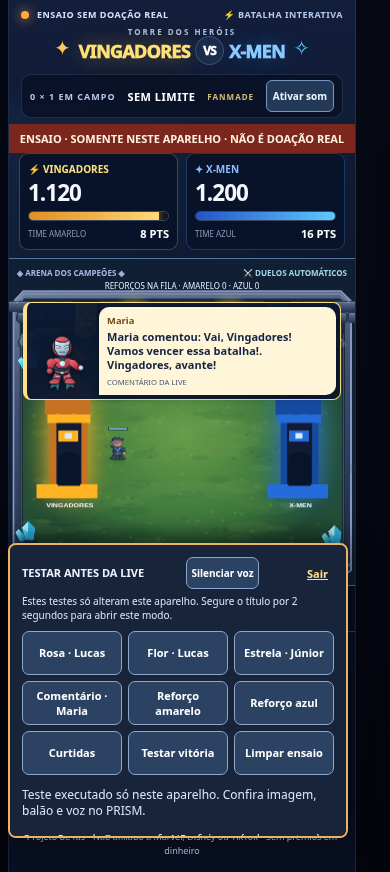
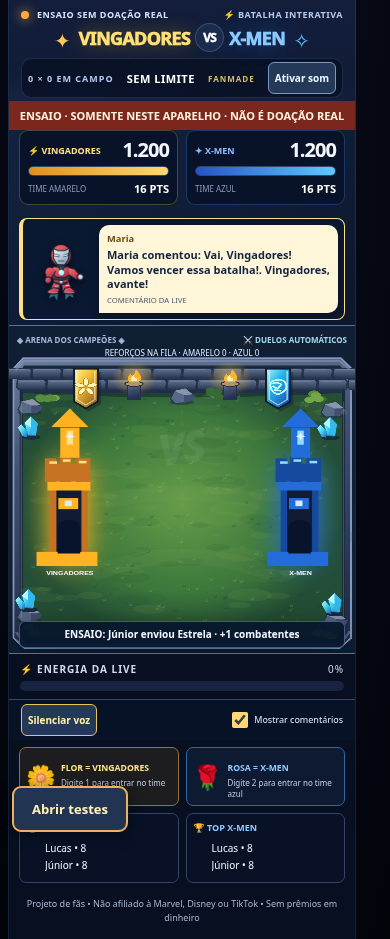
fix: testes dos dois times, retrato completo e trilha sonora local

diff --git a/public/game.js b/public/game.js
@@ -36,7 +36,7 @@
   const colors = { yellow: ["#ffb323", "#ffe084", "#c57322"], blue: ["#256cdb", "#90ddff", "#154a9f"] };
   // Small original Web Audio cues. Nothing starts before an explicit tap.
   const sound = (() => {
-    let context = null, master = null, enabled = false;
+    let context = null, master = null, enabled = false, musicTimer = null, musicStep = 0, ducked = false;
     const voices = new Set(), last = Object.create(null);
     const button = $("soundToggle");
     const cues = {
@@ -51,10 +51,11 @@
     };
     function label() {
       const running = enabled && context?.state === "running";
-      button.textContent = running ? "Silenciar" : "Ativar som";
+      button.textContent = running ? "Silenciar som" : "Ativar som";
       button.setAttribute?.("aria-pressed", String(Boolean(running)));
     }
     function stop() {
+      clearInterval(musicTimer); musicTimer = null;
       for (const oscillator of voices) { try { oscillator.stop(); } catch {} }
       voices.clear();
     }
@@ -71,11 +72,30 @@
           enabled = false; stop(); master.gain.value = 0;
         } else {
           await context.resume(); enabled = context.state === "running";
-          master.gain.value = enabled ? .3 : 0;
-          if (enabled) play("reset");
+          master.gain.value = enabled ? (ducked ? .08 : .3) : 0;
+          if (enabled) { play("reset"); startMusic(); }
         }
         label();
       } catch { enabled = false; label(); }
+    }
+    // Original quiet fantasy arpeggio, two short notes per second; no downloads.
+    function startMusic() {
+      if (musicTimer) return;
+      const melody = [57, 64, 69, 72, 59, 66, 71, 74, 55, 62, 67, 71, 60, 64, 67, 72];
+      const tick = () => {
+        if (!enabled || context.state !== "running" || document.hidden || voices.size >= 10) return;
+        const start = context.currentTime, end = start + .85;
+        const oscillator = context.createOscillator(), envelope = context.createGain();
+        oscillator.type = "sine";
+        oscillator.frequency.value = 440 * 2 ** ((melody[musicStep++ % melody.length] - 69) / 12);
+        envelope.gain.setValueAtTime(0, start);
+        envelope.gain.linearRampToValueAtTime(.06, start + .045);
+        envelope.gain.exponentialRampToValueAtTime(.001, end);
+        oscillator.connect(envelope); envelope.connect(master); voices.add(oscillator);
+        oscillator.onended = () => { voices.delete(oscillator); oscillator.disconnect(); envelope.disconnect(); };
+        oscillator.start(start); oscillator.stop(end + .02);
+      };
+      tick(); musicTimer = setInterval(tick, 500);
     }
     function play(kind) {
       if (!enabled || context?.state !== "running" || document.hidden) return;
@@ -101,7 +121,7 @@
     document.addEventListener?.("visibilitychange", () => {
       if (document.hidden && context) { enabled = false; stop(); master.gain.value = 0; label(); }
     });
-    return { play, duck(active) { if (master) master.gain.value = enabled ? (active ? .08 : .3) : 0; } };
+    return { play, duck(active) { ducked = active; if (master) master.gain.value = enabled ? (active ? .08 : .3) : 0; } };
   })();
   let voiceEnabled = false, voiceStarting = false, voiceWanted = true, voiceAudio = null, autoVoiceTried = false;
   const voiceButton = $("voiceToggle");
@@ -243,8 +263,9 @@
     });
   });
   async function startRehearsal(data) {
+    $('openRehearsal').hidden = true;
     $('rehearsalBanner').hidden = false; $('rehearsalPanel').hidden = false;
-    document.body.append($('rehearsalPanel'));
+    document.body.append($('rehearsalPanel')); document.body.append($('showRehearsalControls'));
     document.body.classList.add('rehearsal-mode');
     try {
       const [{ Battle }, { createRehearsal }] = await Promise.all([import('/testing/battle.mjs'), import('/rehearsal.mjs')]);
@@ -256,11 +277,17 @@
       diagnostics(data);
     } catch { $('rehearsalResult').textContent = 'Não foi possível carregar o ensaio. Atualize a página.'; }
   }
+  $('showRehearsalControls').addEventListener('click', () => { $('rehearsalPanel').hidden = false; $('showRehearsalControls').hidden = true; });
+  $('hideRehearsalControls').addEventListener('click', () => { $('rehearsalPanel').hidden = true; $('showRehearsalControls').hidden = false; });
   document.querySelectorAll('[data-rehearsal]').forEach(button => button.addEventListener('click', async () => {
     if (!rehearsal) return;
     button.disabled = true; let voiceMissing = false; $('rehearsalResult').textContent = 'Preparando teste e voz…';
     try {
       const action = button.dataset.rehearsal;
+      if (!['reset', 'likes'].includes(action)) {
+        $('rehearsalPanel').hidden = true; $('showRehearsalControls').hidden = false;
+        $('showRehearsalControls').textContent = 'Preparando teste…'; $('showRehearsalControls').disabled = true;
+      }
       if (action === 'reset') rehearsal.reset();
       else if (action === 'likes') rehearsal.likes();
       else if (action === 'victory') rehearsal.victory();
@@ -273,23 +300,23 @@
         else rehearsal.gift(fixture, action === 'yellow' || action === 'blue' ? 19 : fixture.count);
       }
       $('rehearsalResult').textContent = voiceMissing ? 'Teste de imagem executado. A voz não ficou pronta; aguarde e tente novamente.' : 'Teste executado só neste aparelho. Confira imagem, balão e voz no PRISM.';
-    } catch { $('rehearsalResult').textContent = 'Não foi possível preparar o teste. Aguarde e tente novamente.'; }
-    finally { button.disabled = false; }
+    } catch { $('rehearsalResult').textContent = 'Não foi possível preparar o teste. Aguarde e tente novamente.'; $('rehearsalPanel').hidden = false; $('showRehearsalControls').hidden = true; }
+    finally { button.disabled = false; $('showRehearsalControls').disabled = false; $('showRehearsalControls').textContent = 'Abrir testes'; }
   }));
   const brand = document.querySelector?.('.brandline');
   let hold;
-  brand?.addEventListener('pointerdown', () => {
+  function enterRehearsal() {
     if (rehearsalMode) return;
-    hold = setTimeout(() => {
-      rehearsalMode = true; window.history.replaceState(null, '', '#teste');
-      sprites.clear(); fallen = []; announcementQueue.length = 0; nextAnnouncementAt = 0; giftUntil = 0;
-      if (liveState) void startRehearsal(liveState);
-    }, 2000);
-  });
+    rehearsalMode = true; window.history.replaceState(null, '', '#teste');
+    sprites.clear(); fallen = []; announcementQueue.length = 0; nextAnnouncementAt = 0; giftUntil = 0;
+    if (liveState) void startRehearsal(liveState);
+  }
+  $('openRehearsal').addEventListener('click', enterRehearsal);
+  brand?.addEventListener('pointerdown', () => { if (!rehearsalMode) hold = setTimeout(enterRehearsal, 2000); });
   $('exitRehearsal').addEventListener('click', event => {
     event.preventDefault(); rehearsalMode = false; rehearsal = null; clearInterval(rehearsalTimer);
     window.history.replaceState(null, '', window.location.pathname);
-    $('rehearsalPanel').hidden = true; $('rehearsalBanner').hidden = true;
+    $('rehearsalPanel').hidden = true; $('rehearsalBanner').hidden = true; $('showRehearsalControls').hidden = true; $('openRehearsal').hidden = false;
     document.body.classList.remove('rehearsal-mode');
     announcementQueue.length = 0; nextAnnouncementAt = 0; giftUntil = 0;
     voiceAudio?.pause(); sound.duck(false); localEvents.reset?.({});
@@ -409,13 +436,14 @@
         $("giftNotice").classList.toggle("blue", data.team === "blue");
         const duration = voiceEnabled && data.audioUrl ? Math.max(5000, Math.min(30000, data.audioDuration * 1000 + 500)) : 5000;
         giftUntil = now + duration; nextAnnouncementAt = now + duration + 500;
-        if (voiceEnabled && voiceAudio && /^\/api\/narration\/(?:[a-f0-9-]{36}|rehearsal-(?:rose|flower|star|comment))$/.test(data.audioUrl || "")) {
+        if (voiceEnabled && voiceAudio && /^\/api\/narration\/(?:[a-f0-9-]{36}|rehearsal-(?:rose|flower|star|star-yellow|comment))$/.test(data.audioUrl || "")) {
           voiceAudio.src = data.audioUrl;
           void voiceAudio.play().catch(() => stopVoice(true));
         }
       }
     }
     $("giftNotice").hidden = now > giftUntil;
+    app.classList.toggle("announcer-open", now <= giftUntil);
     const countdown = $("victoryCountdown");
     countdown.hidden = !state?.winner;
     if (state?.winner) {

diff --git a/public/index.html b/public/index.html
@@ -13,7 +13,7 @@
     <header class="top">
       <div class="topline"><span class="live-dot"></span><span id="liveStatus">MODO TESTE</span><span class="topline-right" id="viewerCount">⚡ BATALHA INTERATIVA</span></div>
       <div class="brandline"><span class="wingmark">✦</span><div><div class="eyebrow">TORRE DOS HERÓIS</div><h1><span>VINGADORES</span> <em>VS</em> <span>X-MEN</span></h1></div><span class="wingmark blue-glow">✧</span></div>
-      <div class="timerline"><span id="roundNo">0 × 0 EM CAMPO</span><strong id="clock">SEM LIMITE</strong><span id="energyFlag">LIVE FANMADE</span><button id="soundToggle" class="sound-toggle" type="button" aria-pressed="false" title="Ativar ou silenciar efeitos sonoros">Ativar som</button></div>
+      <div class="timerline"><span id="roundNo">0 × 0 EM CAMPO</span><strong id="clock">SEM LIMITE</strong><span id="energyFlag">LIVE FANMADE</span><button id="soundToggle" class="sound-toggle" type="button" aria-pressed="false" title="Ativar ou silenciar música e efeitos sonoros">Ativar som</button></div>
     </header>
     <div id="voiceUnlock" class="voice-unlock" hidden><button id="unlockVoice" type="button">Toque uma vez para liberar a voz no iPhone</button></div>
     <div id="rehearsalBanner" class="rehearsal-banner" hidden>ENSAIO · SOMENTE NESTE APARELHO · NÃO É DOAÇÃO REAL</div>
@@ -29,33 +29,34 @@
         <div class="teamfooter"><span>TIME AZUL</span><span id="bluePoints">0 PTS</span></div>
       </div>
     </section>
+      <div id="giftNotice" class="gift-notice announcer" role="status" hidden>
+        <img id="announcerPortrait" src="/assets/announcers/yellow.png" alt="" width="80" height="90">
+        <div class="speech-bubble"><strong id="announcerName"></strong><span id="announcerMessage"></span><small id="announcerDetail"></small></div>
+      </div>
     <div class="battle-area">
       <div class="arena-title"><span>◈ ARENA DOS CAMPEÕES ◈</span><span id="powerStatus">⚔ BATALHA EM ANDAMENTO</span></div>
       <div id="combatQueue" class="combat-queue">Envie Flor ou Rosa para invocar combatentes</div>
       <canvas id="battle" width="540" height="650" role="img" aria-label="Arena animada com duas torres e pequenos super-heróis fanmade"></canvas>
       <div class="center-versus" aria-hidden="true">VS</div>
-      <div id="giftNotice" class="gift-notice announcer" role="status" hidden>
-        <img id="announcerPortrait" src="/assets/announcers/yellow.png" alt="" width="80" height="90">
-        <div class="speech-bubble"><strong id="announcerName"></strong><span id="announcerMessage"></span><small id="announcerDetail"></small></div>
-      </div>
       <div id="victoryCountdown" class="victory-countdown" hidden></div>
       <div id="winBanner" class="win-banner" hidden></div>
       <div id="toast" class="toast">Escolha seu time no chat e entre na batalha!</div>
     </div>
     <div class="power-strip"><div><b>⚡ ENERGIA DA LIVE</b><span id="energyText">0%</span></div><div class="power-track"><div id="energyFill"></div></div></div>
-    <div class="comment-controls"><button id="voiceToggle" class="sound-toggle" type="button" aria-pressed="false" disabled title="Ativar a voz brasileira do Piper">Voz não configurada</button><label class="comment-reading"><input id="readComments" type="checkbox" checked> Mostrar comentários</label></div>
+    <div class="comment-controls"><button id="voiceToggle" class="sound-toggle" type="button" aria-pressed="false" disabled title="Ativar a voz brasileira do Piper">Voz não configurada</button><label class="comment-reading"><input id="readComments" type="checkbox" checked> Mostrar comentários</label><button id="openRehearsal" class="sound-toggle" type="button">Testar sem live</button></div>
     <section class="instructions">
       <div class="guide yellow-guide"><div class="gift">🌼</div><div><strong>FLOR = VINGADORES</strong><small>Digite 1 para entrar no time amarelo</small></div></div>
       <div class="guide blue-guide"><div class="gift">🌹</div><div><strong>ROSA = X-MEN</strong><small>Digite 2 para entrar no time azul</small></div></div>
     </section>
     <section class="ranking"><div class="ranking-col"><h2>🏆 TOP VINGADORES</h2><ol id="yellowRank"><li>Aguardando heróis...</li></ol></div><div class="ranking-col"><h2>🏆 TOP X-MEN</h2><ol id="blueRank"><li>Aguardando mutantes...</li></ol></div></section>
     <section id="demoPanel" class="demo" hidden><div class="demo-heading">🧪 SIMULADOR LOCAL <small>Teste sem estar ao vivo</small></div><div class="demo-buttons"><button data-action="flower">🌼 Flor</button><button data-action="rose">🌹 Rosa</button><button data-action="megaYellow">⚡ Reforço amarelo</button><button data-action="megaBlue">💠 Reforço azul</button><button data-action="likes">👍 50 curtidas</button><button data-action="reset">↻ Reiniciar</button></div></section>
+    <button id="showRehearsalControls" class="rehearsal-launcher" type="button" hidden>Abrir testes</button>
     <section id="rehearsalPanel" class="rehearsal-panel" hidden>
-      <div class="rehearsal-heading"><strong>TESTAR ANTES DA LIVE</strong><button id="rehearsalVoice" type="button">Liberar voz</button><a id="exitRehearsal" href="/">Sair</a></div>
+      <div class="rehearsal-heading"><strong>PAINEL DE TESTES</strong><button id="hideRehearsalControls" type="button">Fechar</button><button id="rehearsalVoice" type="button">Liberar voz</button><a id="exitRehearsal" href="/">Sair</a></div>
       <p>Estes testes só alteram este aparelho. Segure o título por 2 segundos para abrir este modo.</p>
       <div class="demo-buttons">
-        <button data-rehearsal="rose">Rosa · Lucas</button><button data-rehearsal="flower">Flor · Lucas</button><button data-rehearsal="star">Estrela · Júnior</button>
-        <button data-rehearsal="comment">Comentário · Maria</button><button data-rehearsal="yellow">Reforço amarelo</button><button data-rehearsal="blue">Reforço azul</button>
+        <button data-rehearsal="rose">Rosa · Lucas</button><button data-rehearsal="flower">Flor · Lucas</button><button data-rehearsal="star">Estrela · X-Men</button><button data-rehearsal="star-yellow">Estrela · Vingadores</button>
+        <button data-rehearsal="comment">Comentário · Maria</button><button data-rehearsal="yellow">Reforço Vingadores</button><button data-rehearsal="blue">Reforço X-Men</button>
         <button data-rehearsal="likes">Curtidas</button><button data-rehearsal="victory">Testar vitória</button><button data-rehearsal="reset">Limpar ensaio</button>
       </div>
       <p id="rehearsalResult" role="status">Pronto para testar.</p>

diff --git a/public/style.css b/public/style.css
@@ -27,3 +27,11 @@ body{display:block}#app{width:calc(100% - clamp(42px,10vw,120px));max-width:900p
 .rehearsal-mode .rehearsal-panel{position:fixed;bottom:6px;left:8px;width:calc(100% - clamp(42px,10vw,120px) - 8px);max-width:900px;max-height:35svh;overflow:auto;z-index:30;margin:0;box-shadow:0 -6px 24px #0009}.rehearsal-panel>p:first-of-type{margin:5px 0;font-size:10px}.brandline{-webkit-touch-callout:none}
 
 .rehearsal-heading{display:flex;align-items:center;justify-content:space-between;gap:5px}.rehearsal-heading strong{font-size:11px}.rehearsal-heading button{min-height:32px;font-size:10px;padding:4px}.rehearsal-heading a{font-size:11px;padding:6px}
+
+/* The presenter gets a real row outside the canvas: never clips or covers fighters. */
+#giftNotice.announcer{position:relative;inset:auto;width:auto;max-width:calc(100% - 20px);margin:5px 10px;padding:6px;min-height:0;align-items:center;overflow:visible;box-sizing:border-box}
+#giftNotice.announcer img{width:clamp(64px,18cqw,120px);height:auto;max-height:150px;object-fit:contain;object-position:center;align-self:center;display:block}
+#giftNotice .speech-bubble{overflow:visible;min-width:0}.announcer-open .eyebrow{display:none}.announcer-open .timerline{margin:3px 0;padding:3px 6px}.announcer-open .teamheading{display:grid;grid-template-columns:minmax(0,1fr) auto}.announcer-open .teamheading span{width:auto;font-size:clamp(9px,2.6cqw,18px);white-space:normal}.announcer-open .teamheading b{font-size:clamp(20px,5.8cqw,42px)}
+.rehearsal-launcher{position:fixed;left:12px;bottom:12px;z-index:31;padding:12px 18px;background:#213553;color:#fff0ba;border:2px solid #edb260;border-radius:9px;font:800 13px system-ui;box-shadow:0 3px 15px #0007}.rehearsal-launcher:disabled{opacity:.8}.rehearsal-heading strong{font-size:10px}
+
+.comment-controls{flex-wrap:wrap}#openRehearsal{font-size:11px}
